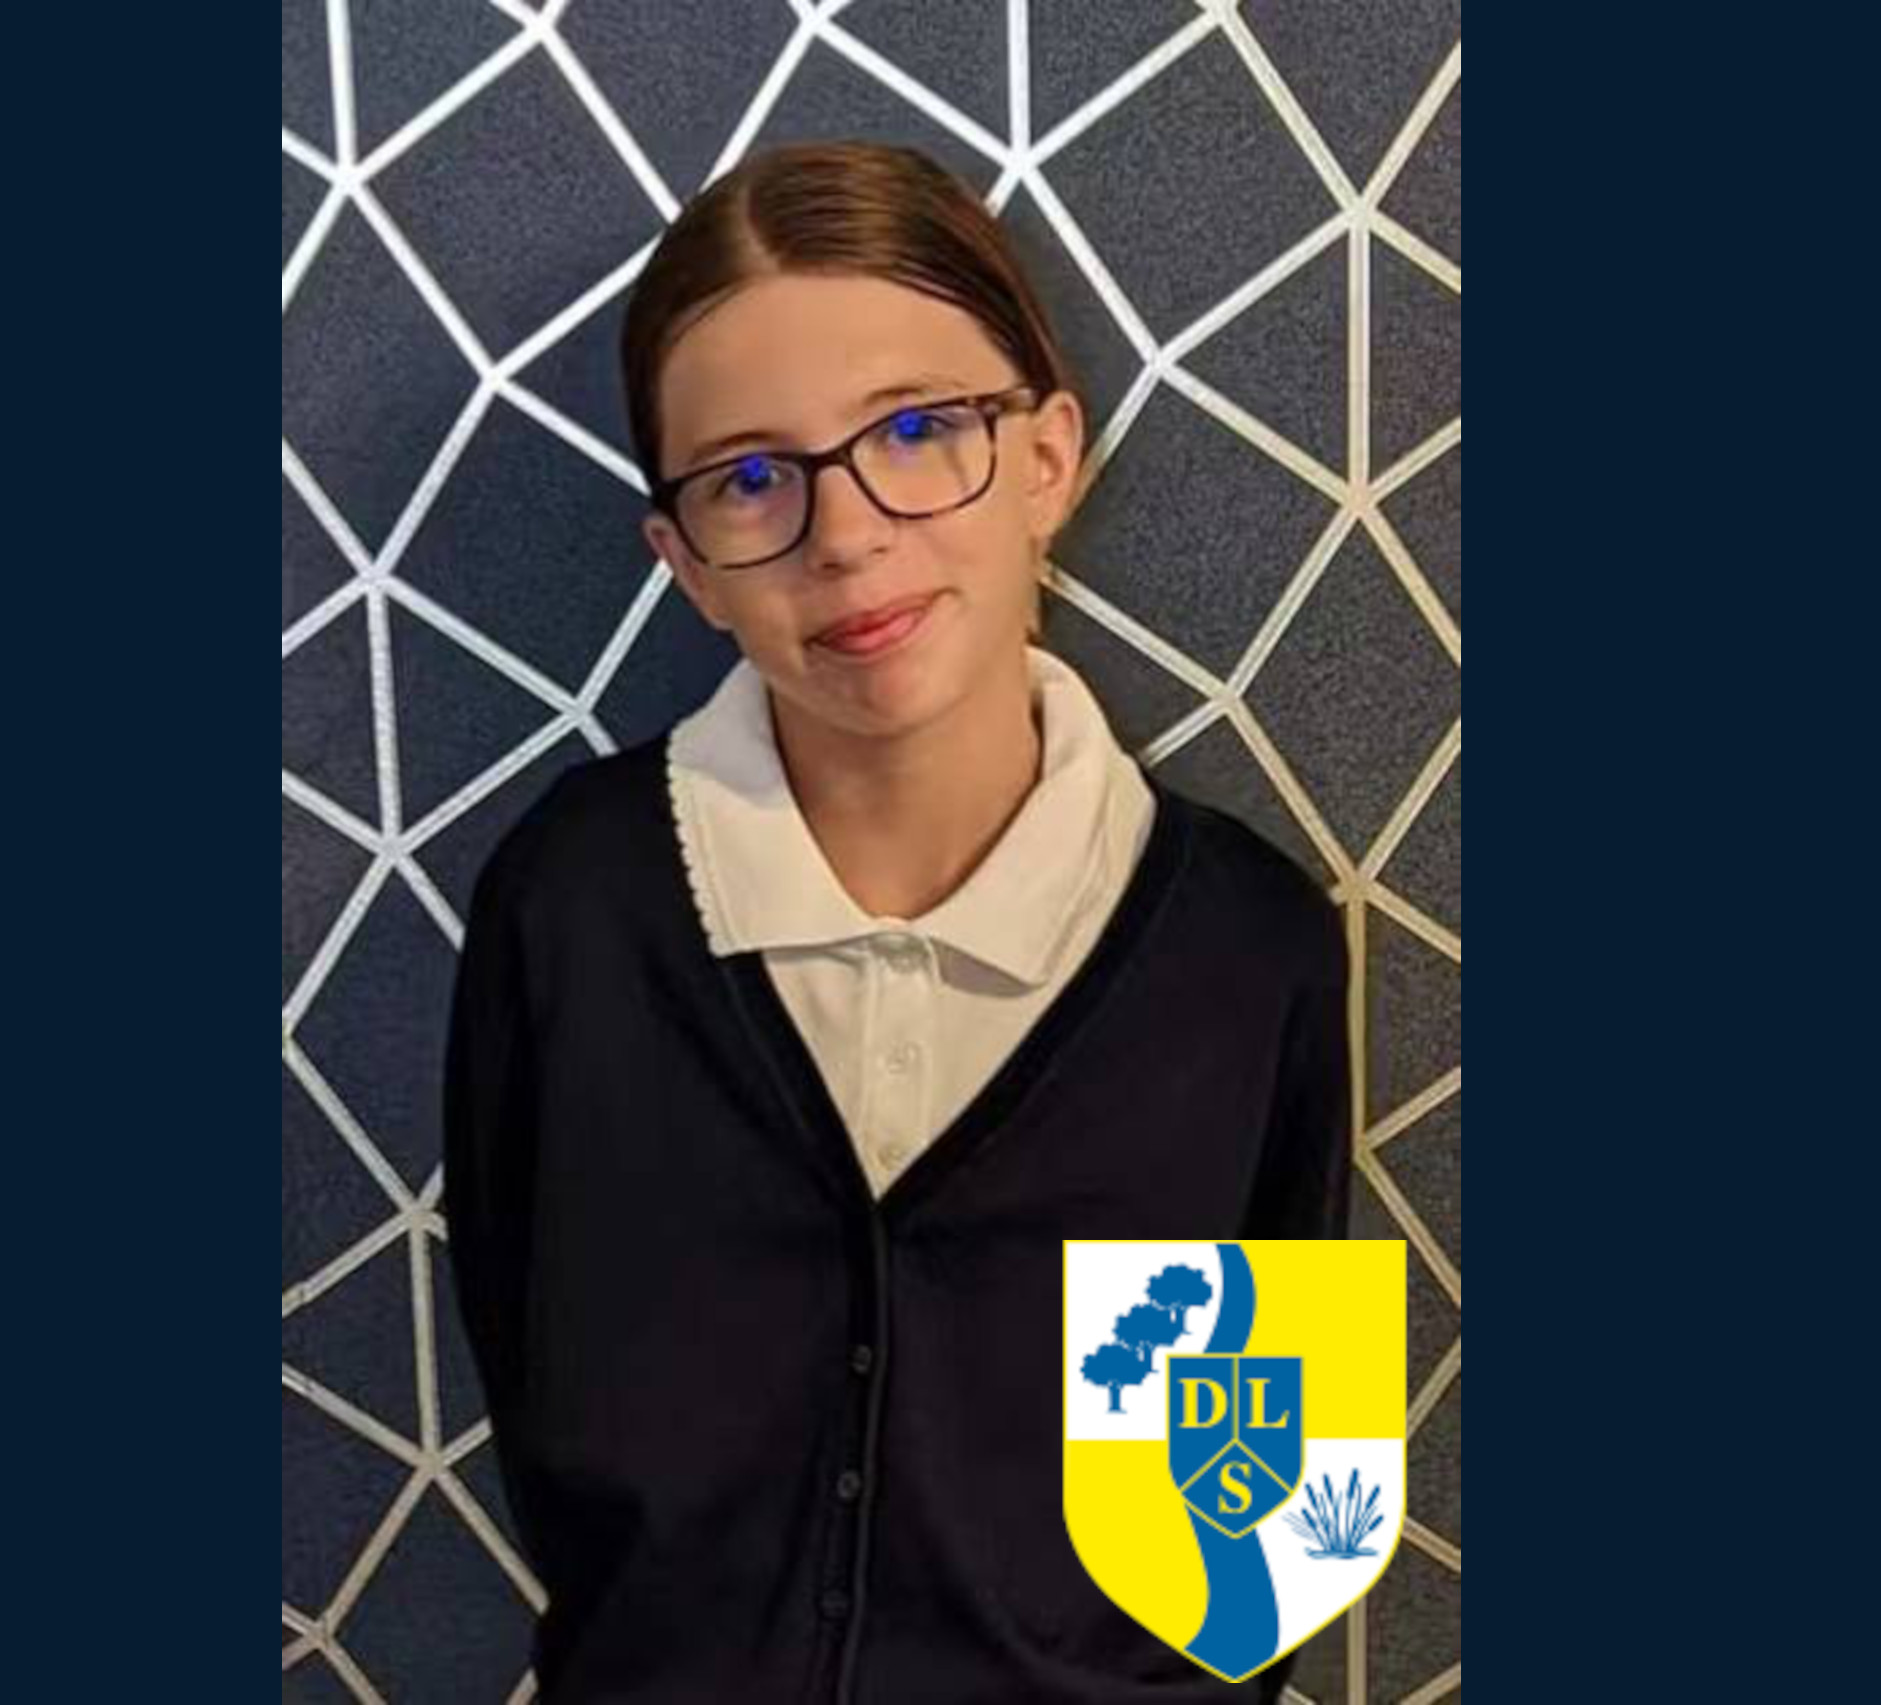
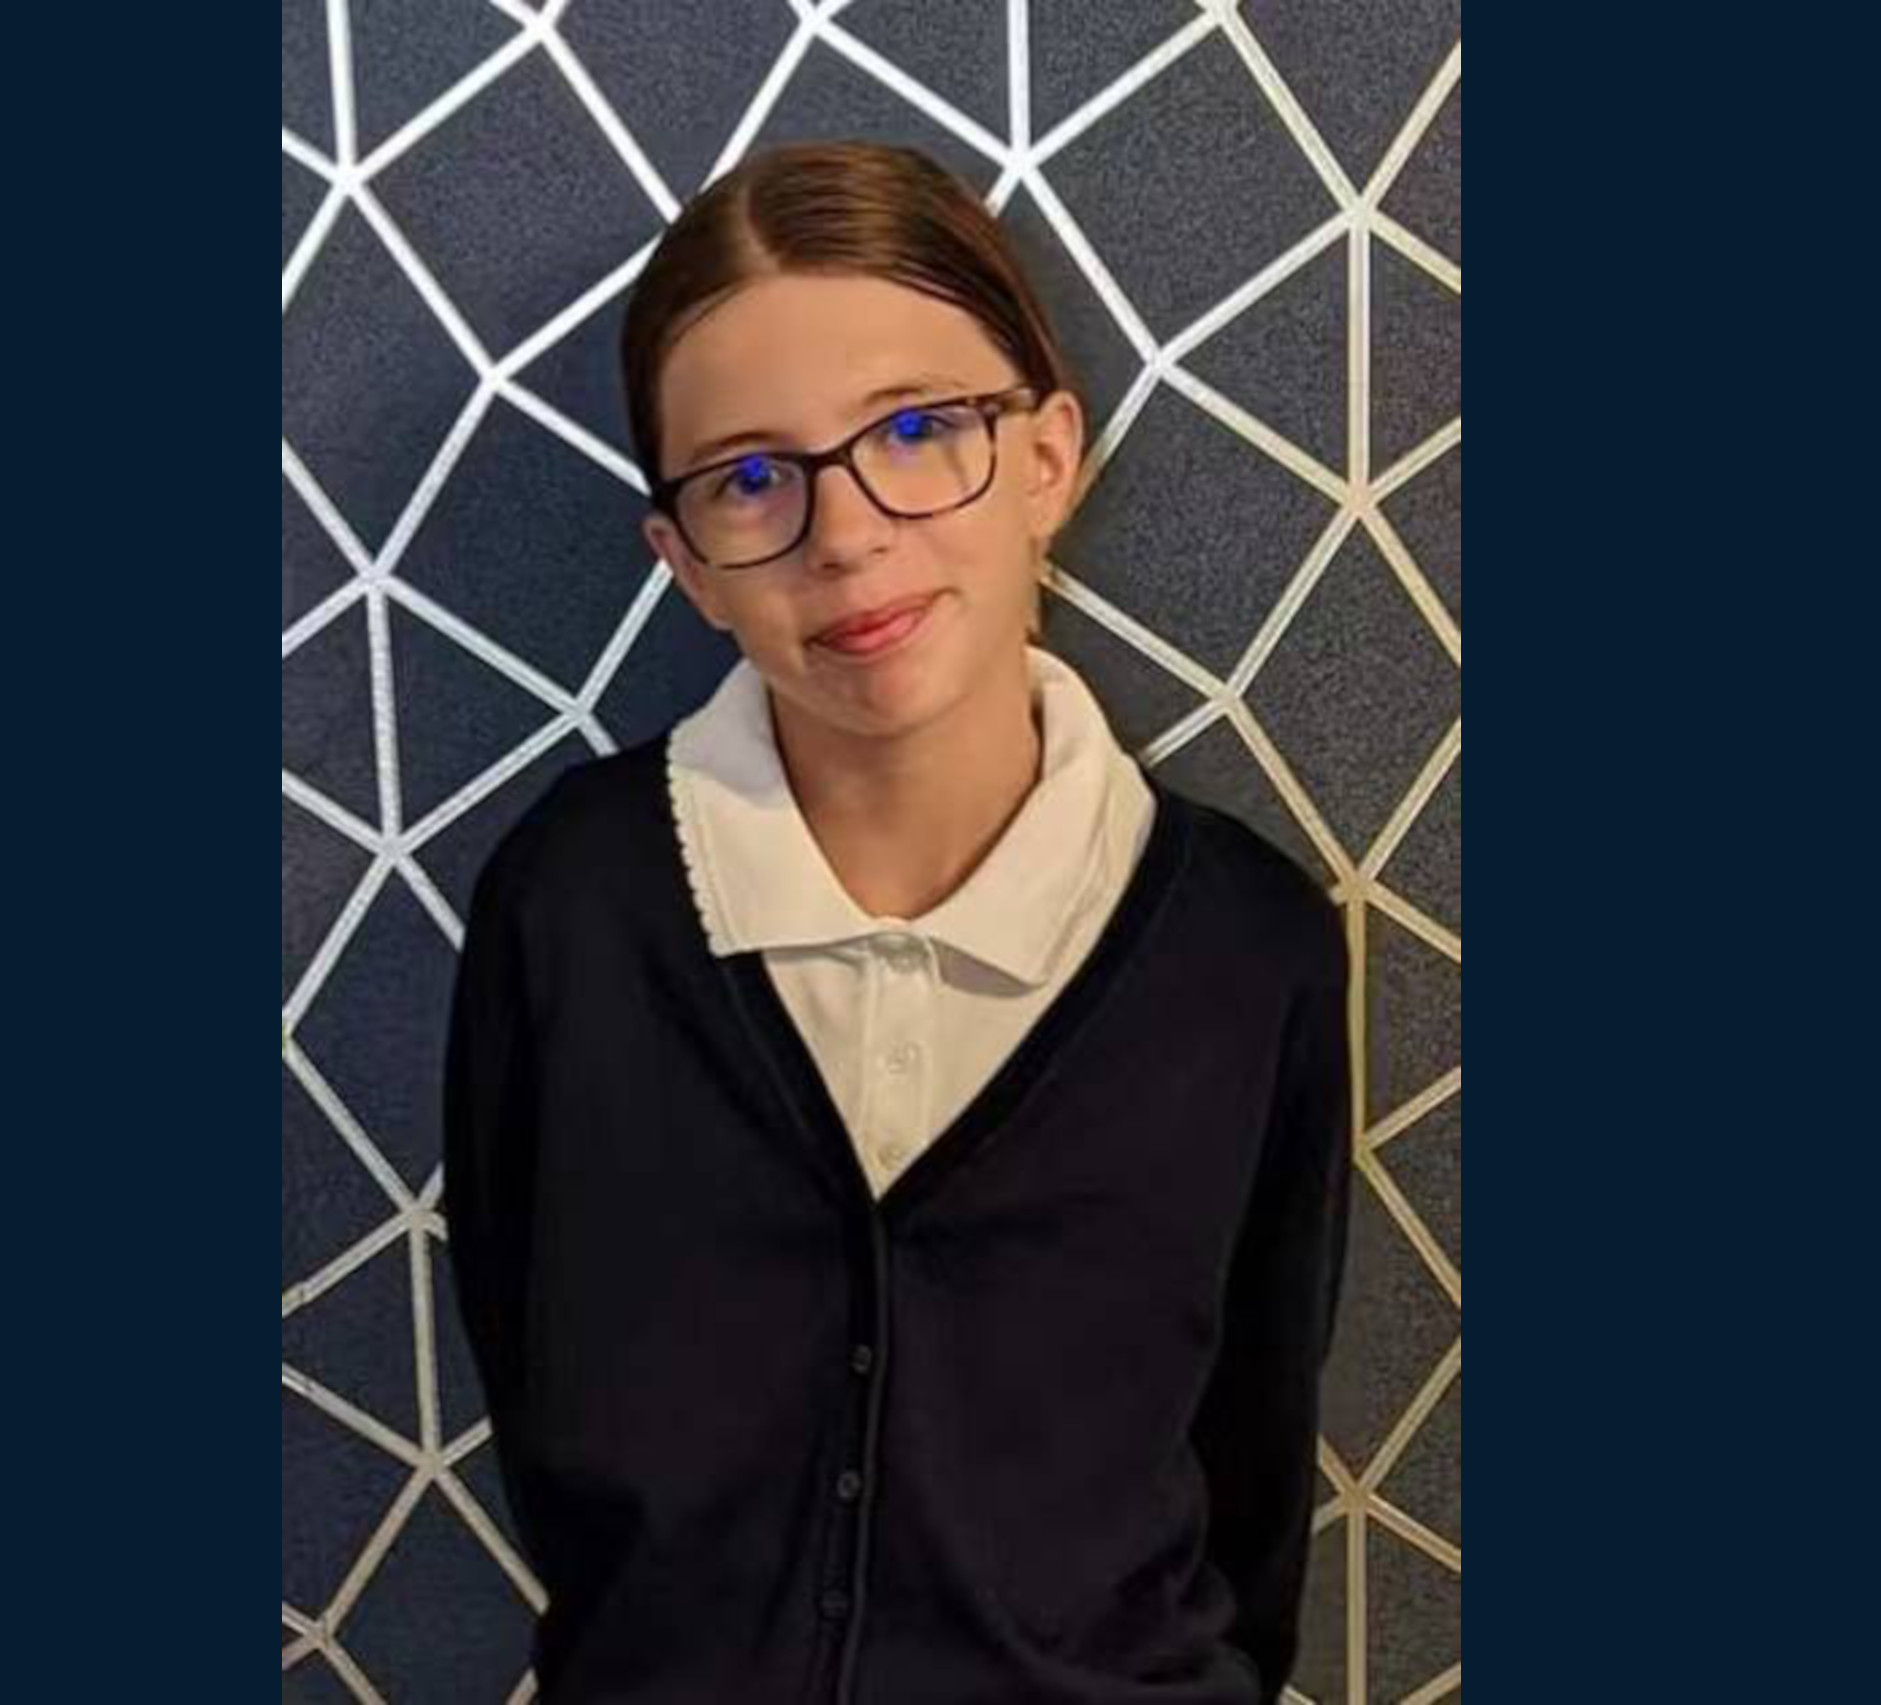
removed school info

Changed region(s): [[0.555, 0.715, 0.7709, 0.9947]]

diff --git a/content/_index.md b/content/_index.md
@@ -3,4 +3,4 @@ title = "Emma Hulls"
 tagline = "Running for Ambassador."
 +++
 
-I am running for Day's Lane Primary School Ambassador. Please vote for me!
+I am running for School Ambassador. Please vote for me!
